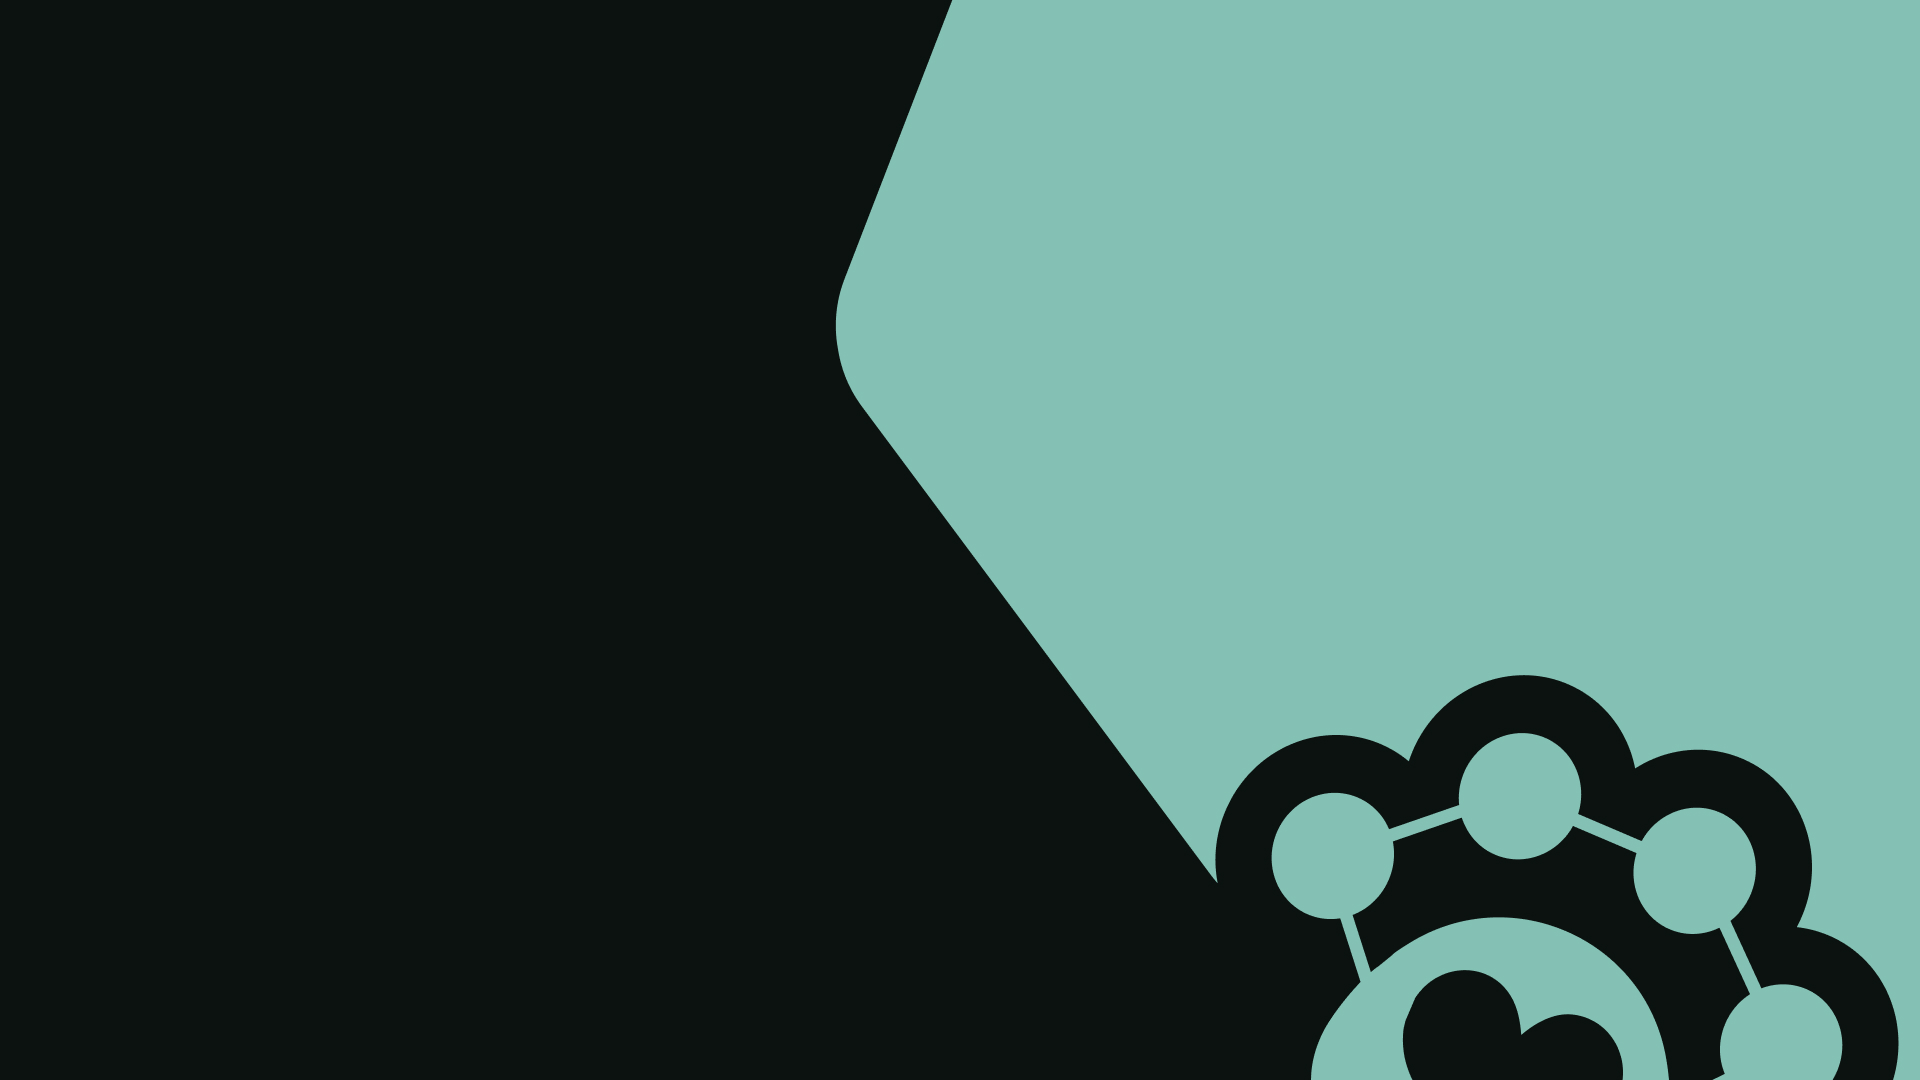
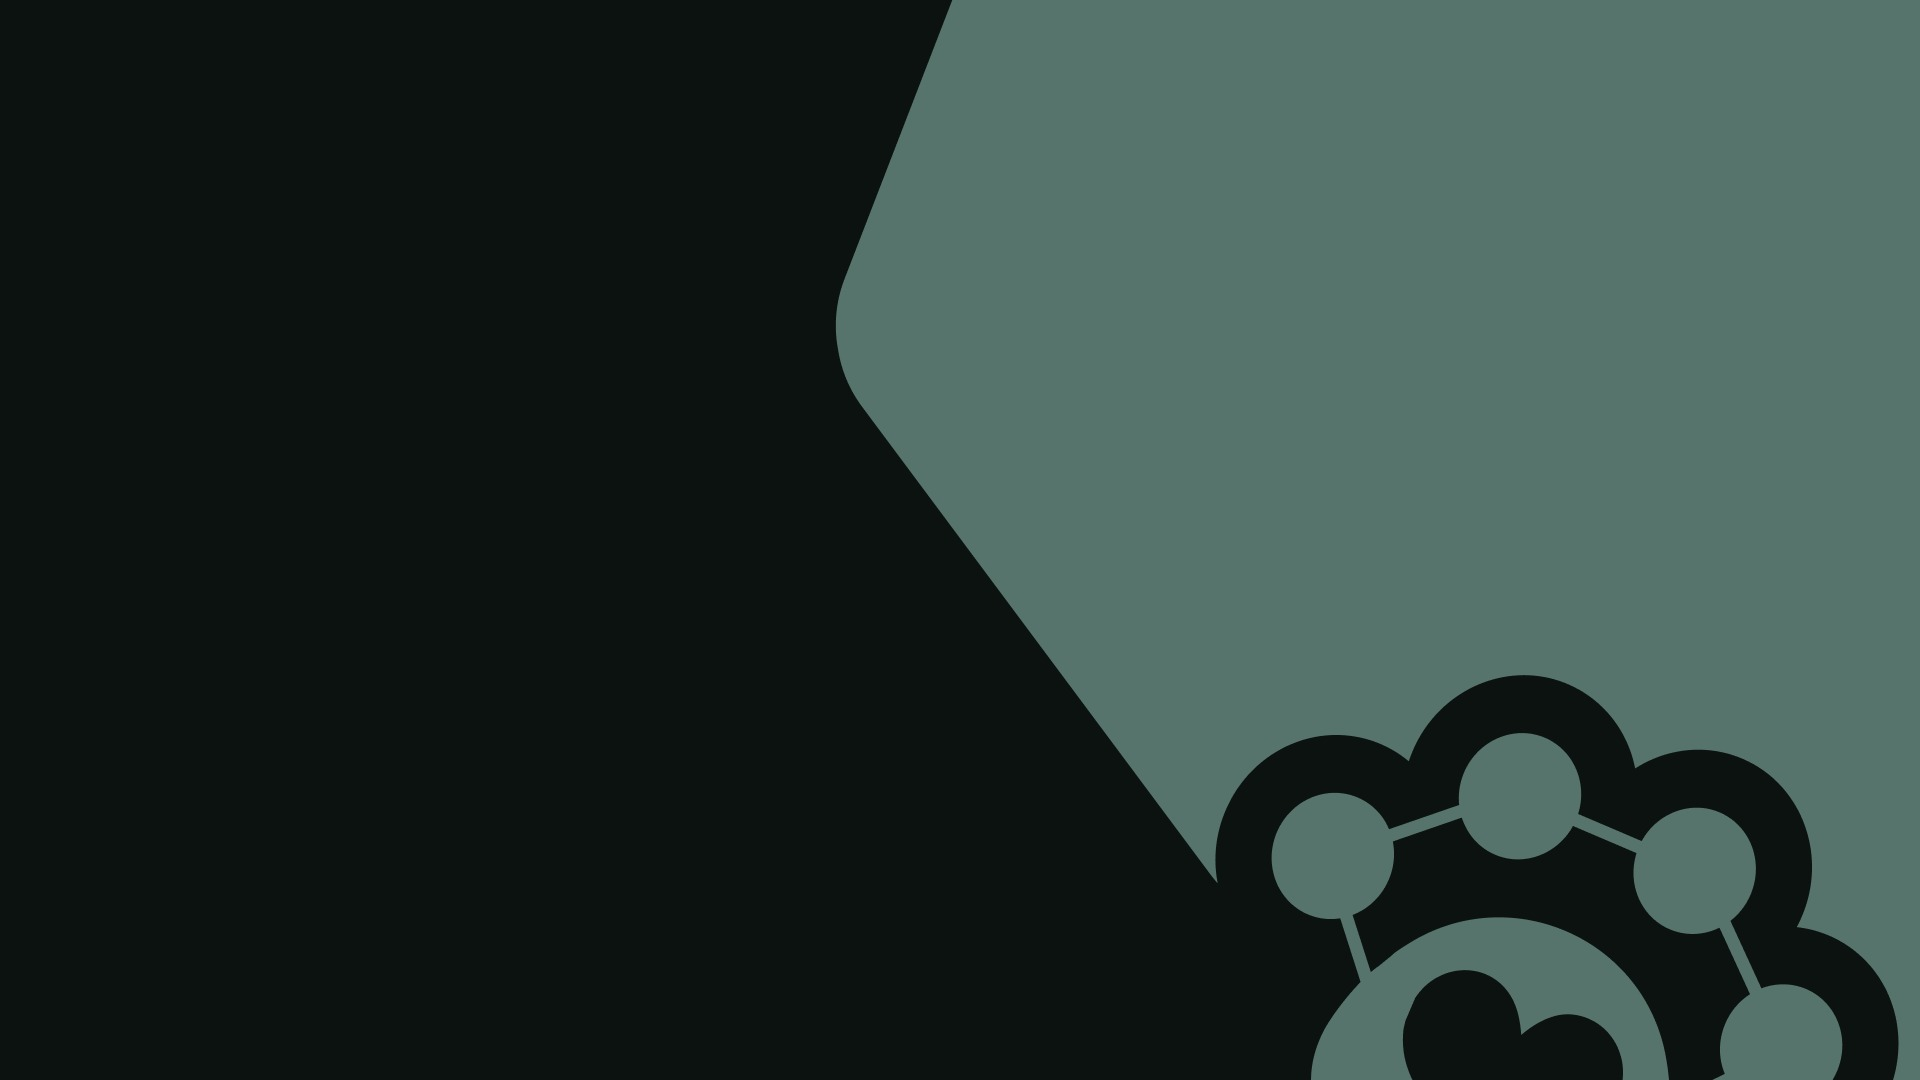
style: entrada no mesmo verde de dentro do portal
A arte da entrada (claro e escuro) foi recolorida do sálvia #84C0B4 para o
--app-destaque de cada tema, pixel a pixel, preservando as bordas suaves.
Botão, checkbox e passos do cadastro passam ao --app-botao com a tinta do
app (rótulo de 3,25:1 para 4,6:1), e o véu atrás do texto sobre a pata
usa o mesmo verde da faixa.

diff --git a/src/components/auth/AuthLayout.vue b/src/components/auth/AuthLayout.vue
@@ -159,16 +159,16 @@ onBeforeUnmount(() => {
 
 <style scoped>
 /*
- * A ação da entrada (o botão, o checkbox, o passo do cadastro) na matiz da sálvia da arte, com o
- * rótulo branco (pedido de 26/10/2026). Branco sobre a sálvia da arte (#84C1B4) dá 2:1 e some; um
- * tom mais fundo da mesma matiz (#4F9C8B) chega a 3,25:1 sem virar o cinza-esverdeado do botão do
- * app (#627A74), que pesava sobre o creme. Os links continuam no `--musgo`: sálvia clara sobre o
- * creme não lê.
+ * A entrada usa o verde de dentro do portal (pedido de 28/10/2026): a faixa da arte é o
+ * `--app-destaque` (a arte foi recolorida para ele, nos dois temas) e a ação (o botão, o checkbox,
+ * o passo do cadastro) é o `--app-botao`, com a tinta que o app põe por cima. Antes era um
+ * sálvia mais vivo (#84C1B4) com o botão em #4F9C8B, e quem entrava via dois verdes. De quebra o
+ * rótulo do botão sobe de 3,25:1 para cerca de 4,6:1. Os links continuam no `--musgo`.
  */
 .auth-page {
-  --auth-acao: #4f9c8b;
-  --auth-acao-hover: #488e7f;
-  --sobre-auth-acao: #fff;
+  --auth-acao: var(--app-botao);
+  --auth-acao-hover: var(--app-botao-hover);
+  --sobre-auth-acao: var(--sobre-musgo);
   --p-checkbox-checked-background: var(--auth-acao);
   --p-checkbox-checked-border-color: var(--auth-acao);
   --p-checkbox-checked-hover-background: var(--auth-acao-hover);
@@ -333,7 +333,7 @@ onBeforeUnmount(() => {
 
 /* Só quando a pata chega ao texto (`textoSobreAPata`, medido no script): ela é papel no
    claro e quase preta no escuro, e o texto branco some na primeira. O véu repõe o verde
-   chapado da arte (#84c0b4, idêntico nos dois temas) atrás da copy: invisível sobre a faixa
+   chapado da arte (o `--app-destaque` do tema, o mesmo verde da faixa) atrás da copy: invisível sobre a faixa
    verde, opaco sobre a pata. É um degradê radial, não um bloco desfocado: chapado atrás do
    texto, ele se apaga antes da borda e mais ainda no canto da diagonal, onde um
    desfoque deixaria um halo verde sobre o creme (e claro sobre o escuro). */
@@ -348,7 +348,11 @@ onBeforeUnmount(() => {
      espelha sozinho. */
   inset-block: -2.5rem;
   inset-inline: 0 -3.5rem;
-  background: radial-gradient(closest-side, #84c0b4 82%, rgb(132 192 180 / 0%) 100%);
+  background: radial-gradient(
+    closest-side,
+    var(--app-destaque) 82%,
+    color-mix(in srgb, var(--app-destaque) 0%, transparent) 100%
+  );
 }
 
 .auth-visual-panel h2 {

diff --git a/src/components/auth/AuthButton.vue b/src/components/auth/AuthButton.vue
@@ -79,7 +79,7 @@ const buttonClasses = computed(() => ['auth-button', `auth-button--${props.varia
   opacity: 0.55;
 }
 
-/* A ação vem da moldura da entrada (`--auth-acao`, a sálvia da casa); fora dela, a do app. */
+/* A ação vem da moldura da entrada (`--auth-acao`, que é o botão do app); fora dela, a do app. */
 .auth-button--primary.p-button,
 .auth-button--primary.p-button:not(:disabled):active {
   border-color: var(--auth-acao, var(--app-botao, var(--musgo)));

diff --git a/src/components/auth/RegisterStepIndicator.vue b/src/components/auth/RegisterStepIndicator.vue
@@ -98,7 +98,7 @@ defineProps<{
   white-space: nowrap;
 }
 
-/* O passo ativo na sálvia da entrada, como o botão (`--auth-acao`, do `AuthLayout`). */
+/* O passo ativo na cor da ação da entrada, como o botão (`--auth-acao`, do `AuthLayout`). */
 .register-steps__item--active .register-steps__marker {
   border-color: var(--auth-acao, var(--musgo));
   background: var(--auth-acao, var(--musgo));
